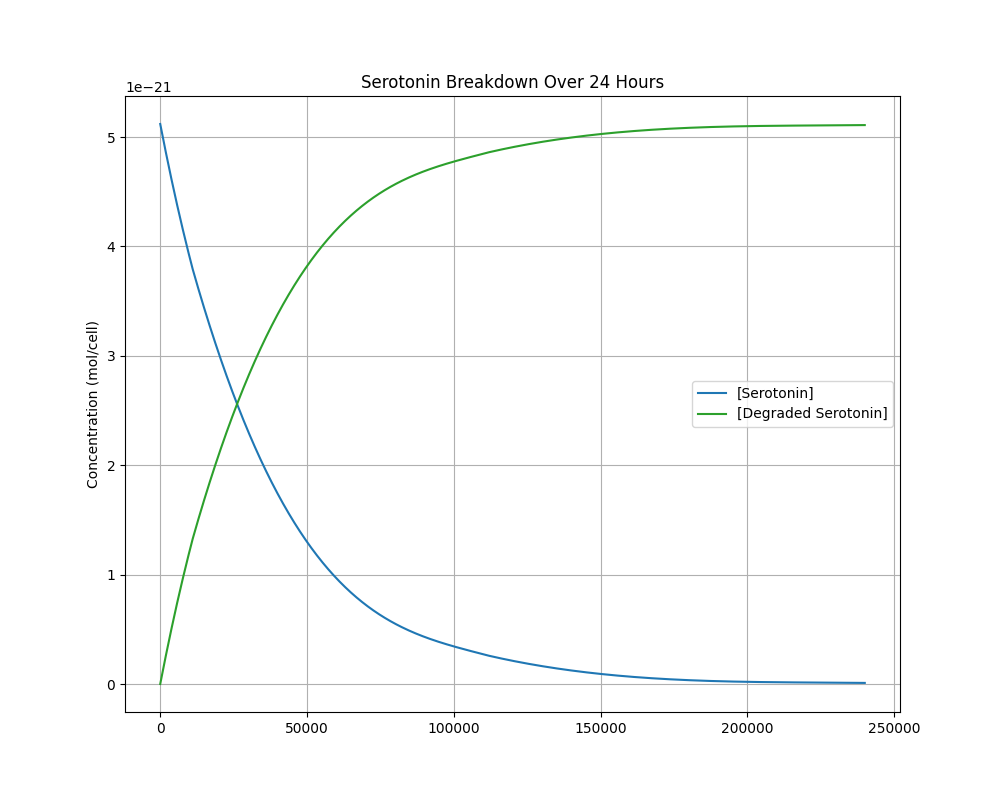
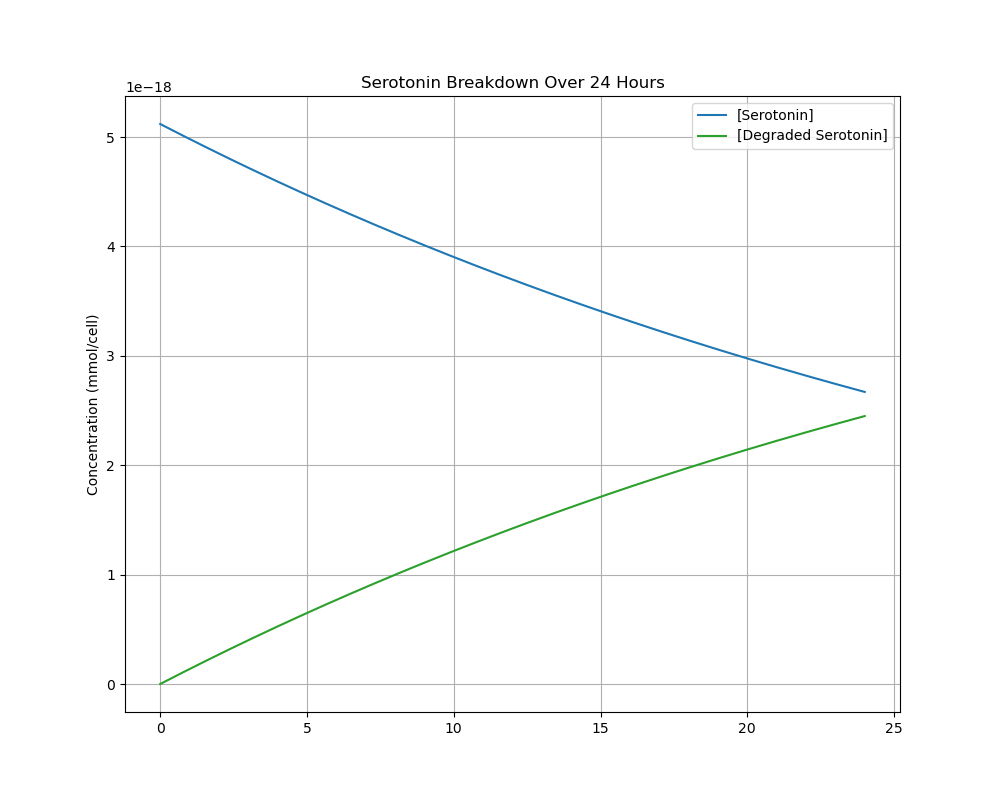
updated code

diff --git a/pbl2/BrainB.py b/pbl2/BrainB.py
@@ -6,8 +6,8 @@ import constants as c
 
 Vmax = c.Vmax_maoA               # mmol/mg*hr
 
-enzyme_per_cell = 1  # mg/cell 
-Vmax_cell = Vmax * enzyme_per_cell / 1000  # mol/cell/day
+enzyme_per_cell = 1 # mg/cell #where did this come from? little confusing
+Vmax_cell = Vmax * enzyme_per_cell  # mmol/ cell*hr
 
 Km = c.Km_maoA                   # mM
 Ki = c.Ki_maoi_maoA              # mM
@@ -20,14 +20,14 @@ def MAOI_inhibitor(t):
     decay = 0.5 ** (t / 2)
     MAOI_mg = (c.MAOI_in) * decay
     MAOI_mol = MAOI_mg / 1000 / c.MAOI_MM
-    MAOI_mol_cell = MAOI_mol / c.S_cells
-    return MAOI_mol_cell 
+    MAOI_mol_cell = MAOI_mol / c.S_cells * 1000 #mmol/cell
+    return MAOI_mol_cell #mol/cell
 
 def MAOI_inhibitor_2(t):
     decay = 0.5 ** (t / 2)
     MAOI_mg = 60 * decay
     MAOI_mol = MAOI_mg / 1000 / c.MAOI_MM
-    MAOI_mol_cell = MAOI_mol / c.S_cells
+    MAOI_mol_cell = MAOI_mol / c.S_cells * 1000 #mmol/cell
     return MAOI_mol_cell
 
 def MAOI_competitive_inhibition(t, y):
@@ -36,18 +36,19 @@ def MAOI_competitive_inhibition(t, y):
     v = Vmax_cell * S / (Km * (1 + I / Ki) + S)
     dS_dt = -v
     dP_dt = v
+    print(I)
     return [dS_dt, dP_dt]
 
 def MAO_enzyme_reaction(t, y):
     S, P = y
-    v = (Vmax_cell * S) / (Km + S)  # mol/cell/day
+    v = (Vmax_cell * S) / (Km + S)  # mmol/cell/day
     dS_dt = -v
     dP_dt = v
     return [dS_dt, dP_dt]
 
 
 #t_span = (0, 24) #real
-t_span = (0, 240) #see longer term equations in action
+t_span = (0, 24) #see longer term equations in action
 t_eval = np.linspace(t_span[0], t_span[1], 500)
 
 if c.case == 0:
@@ -55,7 +56,7 @@ if c.case == 0:
     plt.figure(figsize=(10,8))
     plt.plot(sol.t, sol.y[0], label='[Serotonin]', color='tab:blue')
     plt.plot(sol.t, sol.y[1], label='[Degraded Serotonin]', color='tab:green')
-    plt.ylabel('Concentration (mol/cell)')
+    plt.ylabel('Concentration (mmol/cell)')
     plt.title('Serotonin Breakdown Over 24 Hours')
     plt.legend()
     plt.grid(True)
@@ -65,20 +66,20 @@ if c.case == 0:
 
 else:
     sol = solve_ivp(MAOI_competitive_inhibition, t_span, initial_conditions, t_eval=t_eval)
-    I_vals = [MAOI_inhibitor_2(t) for t in t_eval]
+    I_vals = [MAOI_inhibitor(t) for t in t_eval]
 
     plt.figure(figsize=(10, 8))
     plt.subplot(2, 1, 1)
     plt.plot(sol.t, sol.y[0], label='[Serotonin]', color='tab:blue')
     plt.plot(sol.t, sol.y[1], label='[Degraded Serotonin]', color='tab:green')
-    plt.ylabel('Concentration (mol/cell)')
+    plt.ylabel('Concentration (mmol/cell)')
     plt.title('Serotonin Breakdown Over 24 Hours')
     plt.legend()
     plt.grid(True)
     plt.subplot(2, 1, 2)
     plt.plot(t_eval, I_vals, label='[MAOI]', color='tab:purple', linestyle='--')
     plt.xlabel('Time (hours)')
-    plt.ylabel('Concentration (mol/cell)')
+    plt.ylabel('Concentration (mmol/cell)')
     plt.legend()
     plt.grid(True)
 
@@ -87,3 +88,5 @@ else:
     plt.savefig(filepath)
     S_star_8 = sol.y[1,-1]  #total amount of S_star created per day
     print(S_star_8)
+
+print(Ki)

diff --git a/pbl2/equations.py b/pbl2/equations.py
@@ -27,29 +27,35 @@ def noncompetitive_inhibition(sub, vmax, km, inhibitor, ki):
 
 
 #Brain B Model: Serotonin Metabolism #delete later we r not using for real
+'''
 def enzyme_substrate(sub, vmax, km) :
     return (vmax * sub) / (km + sub)
+'''
 
 
 
 #Brain B Model: 
 
+#I have no clue what this is for
+'''
 #case 0: No MAOI 
 dS_maoA = enzyme_substrate(c.Serotonin_conc_B, c.Vmax_maoA, c.Km_maoA) #returns ds*/dt
 dS_maoB = enzyme_substrate(c.Serotonin_conc_B, c.Vmax_maoB, c.Km_maoB) #returns ds*/dt
 dS_star_dt = dS_maoA + dS_maoB
+'''
 
 #Plotting S* vs. S concentration case 0
 if c.case == 0: 
     sub0 = c.Serotonin_conc_B 
     P0 = 0
     initial_conditions = [P0, sub0]
-    t = np.linspace(0, 50, 50) 
+    t = np.linspace(0, 24, 24) 
 
     def solver(t,y):
         S_star, sub = y
-        dS_maoA = enzyme_substrate(c.Serotonin_conc_B, c.Vmax_maoA, c.Km_maoA) #returns ds*/dt
-        dS_maoB = enzyme_substrate(c.Serotonin_conc_B, c.Vmax_maoB, c.Km_maoB) #returns ds*/dt
+        #(vmax * sub) / (km + sub)
+        dS_maoA = (c.Vmax_maoA * sub) / (c.Km_maoA + sub) #returns ds*/dt
+        dS_maoB = (c.Vmax_maoB * sub) / (c.Km_maoB + sub) #returns ds*/dt
         dS_star_dt = dS_maoA + dS_maoB
         dS_dt = -dS_star_dt
         return[dS_star_dt, dS_dt]

diff --git a/pbl2/constants.py b/pbl2/constants.py
@@ -1,6 +1,6 @@
 import numpy as np
 
-case = 1
+case = 2
 #Case 0: No CSY, No MAOI, MDD
 #Case 1: No CSY, Normal MAOI, MDD
 #Case 2: No CSY, High Dose of MAOI, MDD
@@ -54,7 +54,7 @@ elif case == 7:
 
 #Stream 2
 DXM_2 = (DXM_conc * CSY_in) / 1000 / DXM_MM #mol/day
-MAOI_2 = MAOI_in / 1000 / MAOI_MM #mg/day #Assume all MAOI consumed goes to Reactor/Brain
+MAOI_2 = MAOI_in / 1000 / MAOI_MM #mol/day #Assume all MAOI consumed goes to Reactor/Brain
 trp_2 = trp_in #mol/day #Assume all trp consumed goes to Reactor 
 
 #Stream 3
@@ -99,9 +99,9 @@ Km_maoA = 0.192 #mM
 Km_maoB = 0.192 #mM
 Vmax_maoA = 21.7*24*10e-6 #mmoles/mg/hr 
 Vmax_maoB = 21.7*24*10e-6 #mmoles/mg/hr 
-Ki_maoi_maoA = 0.0373 #mM
-Ki_maoi_maoB = 0.0136 #mM
-Serotonin_conc_B = S_6 / S_cells #moles per cell 
+Ki_maoi_maoA = 0.0373 / S_cells #mM per cell
+Ki_maoi_maoB = 0.0136 / S_cells #mM per cell
+Serotonin_conc_B = S_6 / S_cells *1000 #millimoles per cell 
 
 
 
